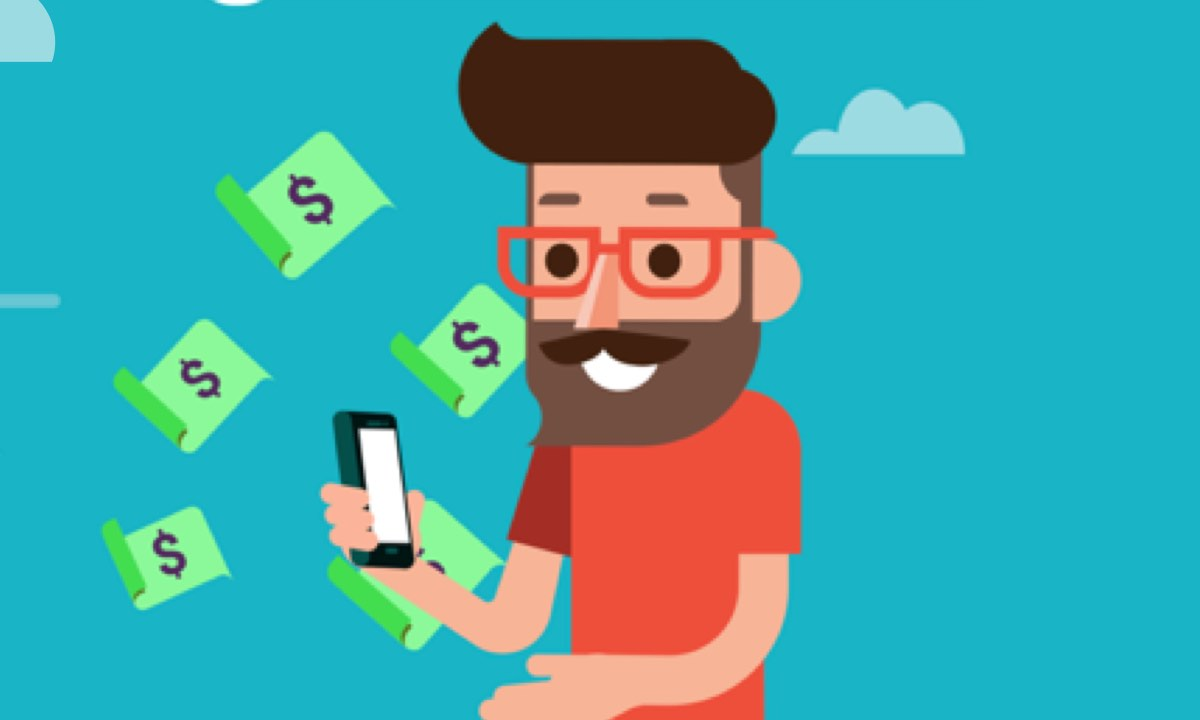
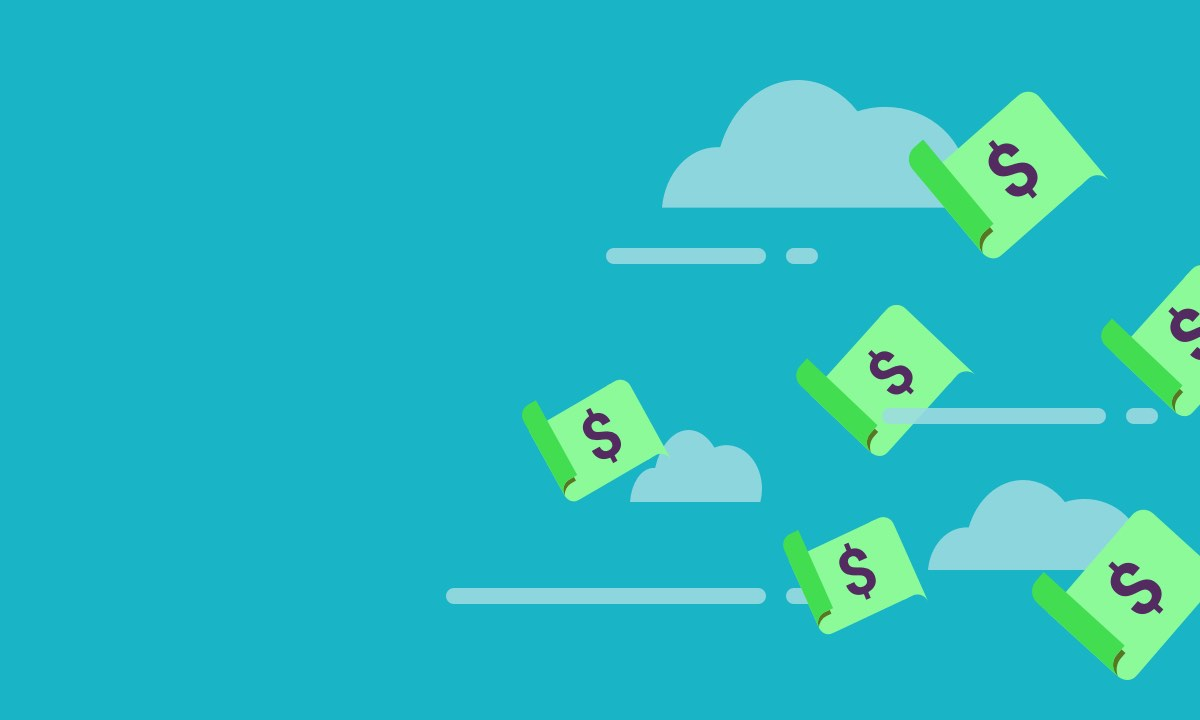
Rapiddo

diff --git a/rapiddo/vision/sources/css/main.css b/rapiddo/vision/sources/css/main.css
@@ -1,1 +1,1 @@
-@import url("https://fonts.googleapis.com/css?family=Poppins:400,600");*{margin:0;padding:0;outline:none;list-style:none;-webkit-font-smoothing:antialiased}*,*::before,*::after{-webkit-box-sizing:border-box;-moz-box-sizing:border-box;box-sizing:border-box}body{background-color:#f5f5f5;font-family:"Poppins",-apple-system,BlinkMacSystemFont,"Segoe UI",Roboto,"Helvetica Neue",Helvetica,Arial,sans-serif,"Apple Color Emoji","Segoe UI Emoji","Segoe UI Symbol";font-size:14px;font-weight:400;color:#727E84;line-height:144%}h1,h3{font-weight:600;color:#37474F}h1{margin-bottom:8px;font-size:1.54em;font-weight:600;color:#FFF}h2{margin-bottom:40px;font-size:1.32em;font-weight:400;color:#37474F}section h2{position:relative}section h2::after{content:'';display:block;position:absolute;bottom:-12px;background-color:#F66F1D;background-image:-webkit-linear-gradient(-90deg, #F66F1D 0%, #F64806 100%);background-image:-moz-linear-gradient(-90deg, #F66F1D 0%, #F64806 100%);background-image:linear-gradient(-90deg, #F66F1D 0%, #F64806 100%);width:40px;height:4px}h3{margin:40px 0 24px;font-size:1.16em}p{margin-bottom:1em;font-size:1em}a,a:visited{-webkit-transition:all ease-in-out .4s;-ms-transition:all ease-in-out .4s;-o-transition:all ease-in-out .4s;transition:all ease-in-out .4s;text-decoration:none}img{max-width:100%;height:auto}.sprite{display:inline-block;background-image:url("../img/sprite.png");background-repeat:no-repeat;background-size:316px}#services,#wallet,footer{background-color:#FFF}#download{background-color:#F66F1D;background-image:-webkit-linear-gradient(-90deg, rgba(246,111,29,0) 32%, #F64806 100%);background-image:-moz-linear-gradient(-90deg, rgba(246,111,29,0) 32%, #F64806 100%);background-image:linear-gradient(-90deg, rgba(246,111,29,0) 32%, #F64806 100%)}.wrapper{padding:40px 16px}#services .wrapper{padding:40px 0}header{position:absolute;z-index:20;top:0;width:100%}header .wrapper{position:relative;padding:16px}header .logo{display:inline-block;text-indent:100%;white-space:nowrap;overflow:hidden;background-position:0px 0px;width:99px;height:32px}header .cta{position:absolute;z-index:30;top:214px;left:50%;-webkit-transform:translateX(-50%);-moz-transform:translateX(-50%);transform:translateX(-50%);background-color:#27D634;background-image:-webkit-linear-gradient(-90deg, #27D634 0%, #119E1C 100%);background-image:-moz-linear-gradient(-90deg, #27D634 0%, #119E1C 100%);background-image:linear-gradient(-90deg, #27D634 0%, #119E1C 100%);-webkit-border-radius:4px;-moz-border-radius:4px;border-radius:4px;-webkit-box-shadow:0 8px 16px 0 rgba(55,71,79,0.32);-moz-box-shadow:0 8px 16px 0 rgba(55,71,79,0.32);box-shadow:0 8px 16px 0 rgba(55,71,79,0.32);padding:16px 24px;font-size:1.2em;font-weight:600;color:#FFF}#slideshow .slides-group{width:100% !important;min-height:544px}#slideshow .slides-nav{position:absolute;z-index:30;top:24px;right:24px;display:-webkit-box;display:-moz-box;display:-ms-flexbox;display:-webkit-flex;display:flex;flex-flow:row nowrap;text-align:right}#slideshow .slides-nav a{display:inline-block;text-indent:100%;white-space:nowrap;overflow:hidden;background-color:rgba(255,255,255,0.4);-webkit-border-radius:8px;-moz-border-radius:8px;border-radius:8px;width:12px;height:12px;margin-left:16px}#slideshow .slides-nav a.activeSlide{background-color:#FFF}#slideshow .banners{background-position:center top;background-repeat:no-repeat;background-size:cover;min-height:240px}#slideshow .banners.rapiddo{background-image:url("../img/banners/rapiddo_mobile.jpg")}#slideshow .banners.music{background-image:url("../img/banners/music_mobile.jpg")}#slideshow .banners.cashback{background-image:url("../img/banners/cashback_mobile.jpg")}#slideshow .banners.campanha{background-image:url("../img/banners/campanha_mobile.jpg")}#slideshow .banners h1{margin-top:40px}#slideshow .banners h2{width:80%;margin-bottom:0;color:#FFF}#slideshow .banners h2::after{display:none}#slideshow .device{background-image:url("../img/device.png");background-position:50% 0%;background-repeat:no-repeat;background-size:400px;height:280px;overflow:hidden;margin-top:24px;text-align:center}#slideshow .device img{max-width:160px;margin-top:60px}#services h2{text-align:center}#services h2::after{left:50%;-webkit-transform:translateX(-50%);-moz-transform:translateX(-50%);transform:translateX(-50%)}#services .cards-group{display:-webkit-box;display:-moz-box;display:-ms-flexbox;display:-webkit-flex;display:flex;flex-flow:row nowrap;flex:0 0 240px;overflow:auto;-webkit-overflow-scrolling:touch}#services .cards-serv p{margin:16px 0 32px}#services .cards-serv_cover,#services .cards-serv_legend{width:240px;margin:0 8px}#services .cards-serv_cover{position:relative;height:96px}#services .cards-serv_cover h3{position:absolute;z-index:10;bottom:12px;left:16px;margin:0;color:#FFF}#services .cards-serv_cover .cards-serv_icon{position:absolute;z-index:10;right:16px;bottom:-8px;background-color:#FFF;-webkit-border-radius:24px;-moz-border-radius:24px;border-radius:24px;-webkit-box-shadow:0 4px 8px 0 rgba(55,71,79,0.24);-moz-box-shadow:0 4px 8px 0 rgba(55,71,79,0.24);box-shadow:0 4px 8px 0 rgba(55,71,79,0.24);width:48px;height:48px}#services .cards-serv.recharge .cards-serv_cover,#services .cards-serv.recharge .cards-serv_legend{margin-left:16px}#services .cards-serv.news .cards-serv_cover,#services .cards-serv.news .cards-serv_legend{margin-right:16px}#services .cards-serv.recharge .cards-serv_icon{background-position:0px -116px}#services .cards-serv.taxi .cards-serv_icon{background-position:-58px -116px}#services .cards-serv.bills .cards-serv_icon{background-position:-116px -116px}#services .cards-serv.pizza .cards-serv_icon{background-position:0px -174px}#services .cards-serv.music .cards-serv_icon{background-position:-58px -174px}#services .cards-serv.news .cards-serv_icon{background-position:-116px -174px}#cashback{padding-bottom:40px}#cashback .how-to{display:-webkit-box;display:-moz-box;display:-ms-flexbox;display:-webkit-flex;display:flex;flex-flow:column wrap;flex:0 0 100%}#cashback .how-to::before{content:'';display:block;position:absolute;left:50%;-webkit-transform:translateX(-50%);-moz-transform:translateX(-50%);transform:translateX(-50%);z-index:1;background-color:rgba(55,71,79,0.08);width:8px;height:64%}#cashback .how-to li{position:relative;z-index:10}#cashback .how-to li .illustration{content:'';display:block;position:absolute;left:50%;-webkit-transform:translateX(-50%);-moz-transform:translateX(-50%);transform:translateX(-50%);top:32px;z-index:20;width:136px;height:136px}#cashback .how-to li .oval{background-color:#FFF;-webkit-border-radius:48px;-moz-border-radius:48px;border-radius:48px;width:80px;height:80px;margin:auto}#cashback .how-to li .oval span{content:'';display:block;position:absolute;width:80px;height:80px}#cashback .how-to li.app .illustration{background-position:0px -322px}#cashback .how-to li.app span{background-position:0 -232px}#cashback .how-to li.stamp .illustration{display:none}#cashback .how-to li.stamp span{background-position:-180px -232px;width:136px;height:136px;margin:-26px;transform:scale(0.72)}#cashback .how-to li.stamp label{margin:24px auto}#cashback .how-to li.wallet .illustration{background-position:0px -468px}#cashback .how-to li.wallet span{background-position:-90px -232px}#cashback .how-to li label{display:block;background-color:rgba(245,245,245,0.88);width:72%;margin:72px auto 24px;padding:8px;text-align:center}#wallet .wrapper{position:relative;padding-top:56%}#wallet .wrapper::before{content:'';display:block;position:absolute;top:-16%;background-image:url("../img/wallet.png");background-repeat:no-repeat;background-size:contain;width:calc(100% - 32px);height:400px}#download{position:relative}#download::before{content:'';display:block;position:absolute;background-image:url("../img/bg-girl.png");background-position:32% 100%;background-repeat:no-repeat;background-size:cover;width:100%;height:100%}#download *{position:relative;z-index:10;color:#FFF}#download h2::after{display:none}#download p{width:72%}#download .badge{display:inline-block;text-indent:100%;white-space:nowrap;overflow:hidden;background-position:-176px -116px;width:140px;height:42px}footer{text-align:center}footer .logo{display:inline-block;text-indent:100%;white-space:nowrap;overflow:hidden;background-position:-109px 0;width:99px;height:32px;margin-bottom:-10px}footer .brands{display:-webkit-box;display:-moz-box;display:-ms-flexbox;display:-webkit-flex;display:flex;flex-flow:row nowrap;justify-content:space-between}footer .brands li{display:-webkit-box;display:-moz-box;display:-ms-flexbox;display:-webkit-flex;display:flex;justify-content:center;align-items:center;background-color:#f5f5f5;-webkit-border-radius:32px;-moz-border-radius:32px;border-radius:32px;width:64px;height:64px}footer .brands li span{display:inline-block;text-indent:100%;white-space:nowrap;overflow:hidden;width:64px;height:64px;transform:scale(0.72)}footer .brands li.ifood span{background-position:0 -42px}footer .brands li.playkids span{background-position:-74px -42px}footer .brands li.apontador span{background-position:-148px -42px}footer .brands li.superplayer span{background-position:-222px -42px}@media (min-width: 768px){h2{margin-bottom:40px}.wrapper{max-width:720px;margin:auto}header .wrapper{padding-top:40px}header .cta{top:220px;left:0%;-webkit-transform:translateX(0%);-moz-transform:translateX(0%);transform:translateX(0%);margin-left:16px}#slideshow .slides-group{min-height:320px}#slideshow .slides-nav{left:50%;-webkit-transform:translateX(-50%);-moz-transform:translateX(-50%);transform:translateX(-50%);top:288px;right:inherit}#slideshow .slides-nav a{-webkit-border-radius:8px;-moz-border-radius:8px;border-radius:8px;width:12px;height:12px;margin-left:16px}#slideshow .slides{position:relative}#slideshow .slides:first-child .device{display:none}#slideshow .banners{background-position:center;min-height:320px}#slideshow .banners.rapiddo{background-image:url("../img/banners/rapiddo.jpg")}#slideshow .banners.music{background-image:url("../img/banners/music.jpg")}#slideshow .banners.cashback{background-image:url("../img/banners/cashback.jpg")}#slideshow .banners.campanha{background-image:url("../img/banners/campanha.jpg")}#slideshow .banners h1{margin-top:80px}#slideshow .banners h2{width:40%}#slideshow .device{position:absolute;z-index:20;top:0;right:0;background-image:url("../img/device_hand.png");width:320px;height:320px;margin-top:0px}#slideshow .device img{max-width:160px;margin-top:60px}#services .cards-group{flex-flow:row wrap;justify-content:space-between;align-items:flex-start;overflow:inherit}#services .cards-serv_cover,#services .cards-serv_legend{width:220px}#services .cards-serv.recharge .cards-serv_cover,#services .cards-serv.recharge .cards-serv_legend{margin-left:8px}#services .cards-serv.news .cards-serv_cover,#services .cards-serv.news .cards-serv_legend{margin-right:8px}#cashback{padding-bottom:120px}#cashback p{width:64%}#cashback .how-to{flex-flow:row nowrap;justify-content:space-between;position:relative}#cashback .how-to::before{top:70px;width:64%;height:8px}#cashback .how-to li .illustration{top:0}#cashback .how-to li.app .illustration{left:148%;-webkit-transform:translateX(-148%);-moz-transform:translateX(-148%);transform:translateX(-148%)}#cashback .how-to li.wallet .illustration{left:-48%;-webkit-transform:translateX(48%);-moz-transform:translateX(48%);transform:translateX(48%)}#cashback .how-to li .oval{margin:24px auto 32px;transform:scale(1.32)}#cashback .how-to li label{width:88%;margin:32px auto}#wallet .wrapper{padding-top:80px;padding-left:40%;text-align:right}#wallet .wrapper::before{top:-240px;left:-80px}#wallet h2::after{right:0}#download::before{background-position:100% 40%}#download p{width:320px}footer .wrapper{display:-webkit-box;display:-moz-box;display:-ms-flexbox;display:-webkit-flex;display:flex;flex-flow:row nowrap;justify-content:space-between;align-items:center;padding-top:40px;padding-bottom:40px}footer .wrapper .brands li{margin-left:24px;transform:scale(1.24)}footer .wrapper .brands li span{transform:scale(0.72)}}@media (min-width: 1024px){#services h2::after,#cashback h2::after{left:0%;-webkit-transform:translateX(0%);-moz-transform:translateX(0%);transform:translateX(0%)}.wrapper{max-width:800px;padding-top:80px;padding-bottom:80px}header .cta{top:280px}#slideshow .slides-group{min-height:400px}#slideshow .slides-nav{top:360px}#slideshow .banners{height:400px}#slideshow .device{right:8%;width:400px;height:400px;margin-top:50px}#services h2{text-align:left}#services .cards-serv_cover,#services .cards-serv_legend{width:240px;margin:auto}#services .cards-serv.recharge .cards-serv_cover,#services .cards-serv.recharge .cards-serv_legend{margin-left:0}#services .cards-serv.news .cards-serv_cover,#services .cards-serv.news .cards-serv_legend{margin-right:0}#cashback .how-to li.app .illustration{left:132%;-webkit-transform:translateX(-132%);-moz-transform:translateX(-132%);transform:translateX(-132%)}#cashback .how-to li.wallet .illustration{left:-32%;-webkit-transform:translateX(32%);-moz-transform:translateX(32%);transform:translateX(32%)}#wallet .wrapper{padding-left:320px}#wallet .wrapper::before{left:-120px;height:480px}}@media (min-width: 1440px){#slideshow .device{left:72%;-webkit-transform:translateX(-72%);-moz-transform:translateX(-72%);transform:translateX(-72%)}#wallet::before{left:4%}#download{min-height:480px}}@media (min-width: 2000px){header .wrapper,#slideshow .wrapper{max-width:1440px}header .cta{top:340px;padding:40px 56px;font-size:1.2vw}#slideshow .slides-group,#slideshow .banners{min-height:640px}#slideshow .slides-group h1,#slideshow .slides-group h2,#slideshow .banners h1,#slideshow .banners h2{font-size:1.2vw}#slideshow .slides-group h1,#slideshow .banners h1{margin-top:120px}#slideshow .slides-nav{top:600px}#slideshow .device{background-size:contain;width:560px;height:560px;margin-top:150px}#slideshow .device img{max-width:224px;margin-top:90px}}
+@import url("https://fonts.googleapis.com/css?family=Poppins:400,600");*{margin:0;padding:0;outline:none;list-style:none;-webkit-font-smoothing:antialiased}*,*::before,*::after{-webkit-box-sizing:border-box;-moz-box-sizing:border-box;box-sizing:border-box}body{background-color:#f5f5f5;font-family:"Poppins",-apple-system,BlinkMacSystemFont,"Segoe UI",Roboto,"Helvetica Neue",Helvetica,Arial,sans-serif,"Apple Color Emoji","Segoe UI Emoji","Segoe UI Symbol";font-size:14px;font-weight:400;color:#727E84;line-height:144%}h1,h3{font-weight:600;color:#37474F}h1{margin-bottom:8px;font-size:1.54em;font-weight:600;color:#FFF}h2{margin-bottom:40px;font-size:1.32em;font-weight:400;color:#37474F}section h2{position:relative}section h2::after{content:'';display:block;position:absolute;bottom:-12px;background-color:#F66F1D;background-image:-webkit-linear-gradient(-90deg, #F66F1D 0%, #F64806 100%);background-image:-moz-linear-gradient(-90deg, #F66F1D 0%, #F64806 100%);background-image:linear-gradient(-90deg, #F66F1D 0%, #F64806 100%);width:40px;height:4px}h3{margin:40px 0 24px;font-size:1.16em}p{margin-bottom:1em;font-size:1em}a,a:visited{-webkit-transition:all ease-in-out .4s;-ms-transition:all ease-in-out .4s;-o-transition:all ease-in-out .4s;transition:all ease-in-out .4s;text-decoration:none}img{max-width:100%;height:auto}.sprite{display:inline-block;background-image:url("../img/sprite.png");background-repeat:no-repeat;background-size:316px}#services,#wallet,footer{background-color:#FFF}#download{background-color:#F66F1D;background-image:-webkit-linear-gradient(-90deg, rgba(246,111,29,0) 32%, #F64806 100%);background-image:-moz-linear-gradient(-90deg, rgba(246,111,29,0) 32%, #F64806 100%);background-image:linear-gradient(-90deg, rgba(246,111,29,0) 32%, #F64806 100%)}.wrapper{padding:40px 16px}#services .wrapper{padding:40px 0}header{position:absolute;z-index:20;top:0;width:100%}header .wrapper{position:relative;padding:16px}header .logo{display:inline-block;text-indent:100%;white-space:nowrap;overflow:hidden;background-position:0px 0px;width:99px;height:32px}header .cta{position:absolute;z-index:30;top:214px;left:50%;-webkit-transform:translateX(-50%);-moz-transform:translateX(-50%);transform:translateX(-50%);background-color:#27D634;background-image:-webkit-linear-gradient(-90deg, #27D634 0%, #119E1C 100%);background-image:-moz-linear-gradient(-90deg, #27D634 0%, #119E1C 100%);background-image:linear-gradient(-90deg, #27D634 0%, #119E1C 100%);-webkit-border-radius:4px;-moz-border-radius:4px;border-radius:4px;-webkit-box-shadow:0 8px 16px 0 rgba(55,71,79,0.32);-moz-box-shadow:0 8px 16px 0 rgba(55,71,79,0.32);box-shadow:0 8px 16px 0 rgba(55,71,79,0.32);padding:16px 24px;font-size:1.2em;font-weight:600;color:#FFF}#slideshow .slides-group{width:100% !important;min-height:544px}#slideshow .slides-nav{position:absolute;z-index:30;top:24px;right:24px;display:-webkit-box;display:-moz-box;display:-ms-flexbox;display:-webkit-flex;display:flex;flex-flow:row nowrap;text-align:right}#slideshow .slides-nav a{display:inline-block;text-indent:100%;white-space:nowrap;overflow:hidden;background-color:rgba(255,255,255,0.4);-webkit-border-radius:8px;-moz-border-radius:8px;border-radius:8px;width:12px;height:12px;margin-left:16px}#slideshow .slides-nav a.activeSlide{background-color:#FFF}#slideshow .banners{background-position:center top;background-repeat:no-repeat;background-size:cover;min-height:240px}#slideshow .banners.rapiddo{background-image:url("../img/banners/rapiddo_mobile.jpg")}#slideshow .banners.music{background-image:url("../img/banners/music_mobile.jpg")}#slideshow .banners.cashback{background-image:url("../img/banners/cashback_mobile.jpg")}#slideshow .banners.campanha{background-image:url("../img/banners/campanha_mobile.jpg")}#slideshow .banners h1{margin-top:40px}#slideshow .banners h2{width:80%;margin-bottom:0;color:#FFF}#slideshow .banners h2::after{display:none}#slideshow .device{background-image:url("../img/device.png");background-position:50% 0%;background-repeat:no-repeat;background-size:400px;height:280px;overflow:hidden;margin-top:24px;text-align:center}#slideshow .device img{max-width:160px;margin-top:60px}#slideshow .slides:first-child .device{background-image:url("../img/boneco.png");background-size:320px;background-position:0px 40px}#slideshow .slides:first-child .device img{display:none}#services h2{text-align:center}#services h2::after{left:50%;-webkit-transform:translateX(-50%);-moz-transform:translateX(-50%);transform:translateX(-50%)}#services .cards-group{display:-webkit-box;display:-moz-box;display:-ms-flexbox;display:-webkit-flex;display:flex;flex-flow:row nowrap;flex:0 0 240px;overflow:auto;-webkit-overflow-scrolling:touch}#services .cards-serv p{margin:16px 0 32px}#services .cards-serv_cover,#services .cards-serv_legend{width:240px;margin:0 8px}#services .cards-serv_cover{position:relative;height:96px}#services .cards-serv_cover h3{position:absolute;z-index:10;bottom:12px;left:16px;margin:0;color:#FFF}#services .cards-serv_cover .cards-serv_icon{position:absolute;z-index:10;right:16px;bottom:-8px;background-color:#FFF;-webkit-border-radius:24px;-moz-border-radius:24px;border-radius:24px;-webkit-box-shadow:0 4px 8px 0 rgba(55,71,79,0.24);-moz-box-shadow:0 4px 8px 0 rgba(55,71,79,0.24);box-shadow:0 4px 8px 0 rgba(55,71,79,0.24);width:48px;height:48px}#services .cards-serv.recharge .cards-serv_cover,#services .cards-serv.recharge .cards-serv_legend{margin-left:16px}#services .cards-serv.news .cards-serv_cover,#services .cards-serv.news .cards-serv_legend{margin-right:16px}#services .cards-serv.recharge .cards-serv_icon{background-position:0px -116px}#services .cards-serv.taxi .cards-serv_icon{background-position:-58px -116px}#services .cards-serv.bills .cards-serv_icon{background-position:-116px -116px}#services .cards-serv.pizza .cards-serv_icon{background-position:0px -174px}#services .cards-serv.music .cards-serv_icon{background-position:-58px -174px}#services .cards-serv.news .cards-serv_icon{background-position:-116px -174px}#cashback{padding-bottom:40px}#cashback .how-to{display:-webkit-box;display:-moz-box;display:-ms-flexbox;display:-webkit-flex;display:flex;flex-flow:column wrap;flex:0 0 100%}#cashback .how-to::before{content:'';display:block;position:absolute;left:50%;-webkit-transform:translateX(-50%);-moz-transform:translateX(-50%);transform:translateX(-50%);z-index:1;background-color:rgba(55,71,79,0.08);width:8px;height:64%}#cashback .how-to li{position:relative;z-index:10}#cashback .how-to li .illustration{content:'';display:block;position:absolute;left:50%;-webkit-transform:translateX(-50%);-moz-transform:translateX(-50%);transform:translateX(-50%);top:32px;z-index:20;width:136px;height:136px}#cashback .how-to li .oval{background-color:#FFF;-webkit-border-radius:48px;-moz-border-radius:48px;border-radius:48px;width:80px;height:80px;margin:auto}#cashback .how-to li .oval span{content:'';display:block;position:absolute;width:80px;height:80px}#cashback .how-to li.app .illustration{background-position:0px -322px}#cashback .how-to li.app span{background-position:0 -232px}#cashback .how-to li.stamp .illustration{display:none}#cashback .how-to li.stamp span{background-position:-180px -232px;width:136px;height:136px;margin:-26px;transform:scale(0.72)}#cashback .how-to li.stamp label{margin:24px auto}#cashback .how-to li.wallet .illustration{background-position:0px -468px}#cashback .how-to li.wallet span{background-position:-90px -232px}#cashback .how-to li label{display:block;background-color:rgba(245,245,245,0.88);width:72%;margin:72px auto 24px;padding:8px;text-align:center}#wallet .wrapper{position:relative;padding-top:56%}#wallet .wrapper::before{content:'';display:block;position:absolute;top:-16%;background-image:url("../img/wallet.png");background-repeat:no-repeat;background-size:contain;width:calc(100% - 32px);height:400px}#download{position:relative}#download::before{content:'';display:block;position:absolute;background-image:url("../img/bg-girl.png");background-position:32% 100%;background-repeat:no-repeat;background-size:cover;width:100%;height:100%}#download *{position:relative;z-index:10;color:#FFF}#download h2::after{display:none}#download p{width:72%}#download .badge{display:inline-block;text-indent:100%;white-space:nowrap;overflow:hidden;background-position:-176px -116px;width:140px;height:42px}footer{text-align:center}footer .logo{display:inline-block;text-indent:100%;white-space:nowrap;overflow:hidden;background-position:-109px 0;width:99px;height:32px;margin-bottom:-10px}footer .brands{display:-webkit-box;display:-moz-box;display:-ms-flexbox;display:-webkit-flex;display:flex;flex-flow:row nowrap;justify-content:space-between}footer .brands li{display:-webkit-box;display:-moz-box;display:-ms-flexbox;display:-webkit-flex;display:flex;justify-content:center;align-items:center;background-color:#f5f5f5;-webkit-border-radius:32px;-moz-border-radius:32px;border-radius:32px;width:64px;height:64px}footer .brands li span{display:inline-block;text-indent:100%;white-space:nowrap;overflow:hidden;width:64px;height:64px;transform:scale(0.72)}footer .brands li.ifood span{background-position:0 -42px}footer .brands li.playkids span{background-position:-74px -42px}footer .brands li.apontador span{background-position:-148px -42px}footer .brands li.superplayer span{background-position:-222px -42px}@media (min-width: 768px){h2{margin-bottom:40px}.wrapper{max-width:720px;margin:auto}header .wrapper{padding-top:40px}header .cta{top:220px;left:0%;-webkit-transform:translateX(0%);-moz-transform:translateX(0%);transform:translateX(0%);margin-left:16px}#slideshow .slides-group{min-height:320px}#slideshow .slides-nav{left:50%;-webkit-transform:translateX(-50%);-moz-transform:translateX(-50%);transform:translateX(-50%);top:288px;right:inherit}#slideshow .slides-nav a{-webkit-border-radius:8px;-moz-border-radius:8px;border-radius:8px;width:12px;height:12px;margin-left:16px}#slideshow .slides{position:relative}#slideshow .banners{background-position:center;min-height:320px}#slideshow .banners.rapiddo{background-image:url("../img/banners/rapiddo.jpg")}#slideshow .banners.music{background-image:url("../img/banners/music.jpg")}#slideshow .banners.cashback{background-image:url("../img/banners/cashback.jpg")}#slideshow .banners.campanha{background-image:url("../img/banners/campanha.jpg")}#slideshow .banners h1{margin-top:80px}#slideshow .banners h2{width:40%}#slideshow .device{position:absolute;z-index:20;top:0;right:0;background-image:url("../img/device_hand.png");width:320px;height:320px;margin-top:0px}#slideshow .device img{max-width:160px;margin-top:60px}#services .cards-group{flex-flow:row wrap;justify-content:space-between;align-items:flex-start;overflow:inherit}#services .cards-serv_cover,#services .cards-serv_legend{width:220px}#services .cards-serv.recharge .cards-serv_cover,#services .cards-serv.recharge .cards-serv_legend{margin-left:8px}#services .cards-serv.news .cards-serv_cover,#services .cards-serv.news .cards-serv_legend{margin-right:8px}#cashback{padding-bottom:120px}#cashback p{width:64%}#cashback .how-to{flex-flow:row nowrap;justify-content:space-between;position:relative}#cashback .how-to::before{top:70px;width:64%;height:8px}#cashback .how-to li .illustration{top:0}#cashback .how-to li.app .illustration{left:148%;-webkit-transform:translateX(-148%);-moz-transform:translateX(-148%);transform:translateX(-148%)}#cashback .how-to li.wallet .illustration{left:-48%;-webkit-transform:translateX(48%);-moz-transform:translateX(48%);transform:translateX(48%)}#cashback .how-to li .oval{margin:24px auto 32px;transform:scale(1.32)}#cashback .how-to li label{width:88%;margin:32px auto}#wallet .wrapper{padding-top:80px;padding-left:40%;text-align:right}#wallet .wrapper::before{top:-240px;left:-80px}#wallet h2::after{right:0}#download::before{background-position:100% 40%}#download p{width:320px}footer .wrapper{display:-webkit-box;display:-moz-box;display:-ms-flexbox;display:-webkit-flex;display:flex;flex-flow:row nowrap;justify-content:space-between;align-items:center;padding-top:40px;padding-bottom:40px}footer .wrapper .brands li{margin-left:24px;transform:scale(1.24)}footer .wrapper .brands li span{transform:scale(0.72)}}@media (min-width: 1024px){#services h2::after,#cashback h2::after{left:0%;-webkit-transform:translateX(0%);-moz-transform:translateX(0%);transform:translateX(0%)}.wrapper{max-width:800px;padding-top:80px;padding-bottom:80px}header .cta{top:280px}#slideshow .slides-group{min-height:400px}#slideshow .slides-nav{top:360px}#slideshow .banners{height:400px}#slideshow .device{right:8%;width:400px;height:400px;margin-top:50px}#services h2{text-align:left}#services .cards-serv_cover,#services .cards-serv_legend{width:240px;margin:auto}#services .cards-serv.recharge .cards-serv_cover,#services .cards-serv.recharge .cards-serv_legend{margin-left:0}#services .cards-serv.news .cards-serv_cover,#services .cards-serv.news .cards-serv_legend{margin-right:0}#cashback .how-to li.app .illustration{left:132%;-webkit-transform:translateX(-132%);-moz-transform:translateX(-132%);transform:translateX(-132%)}#cashback .how-to li.wallet .illustration{left:-32%;-webkit-transform:translateX(32%);-moz-transform:translateX(32%);transform:translateX(32%)}#wallet .wrapper{padding-left:320px}#wallet .wrapper::before{left:-120px;height:480px}}@media (min-width: 1440px){#slideshow .device{left:72%;-webkit-transform:translateX(-72%);-moz-transform:translateX(-72%);transform:translateX(-72%)}#wallet::before{left:4%}#download{min-height:480px}}@media (min-width: 2000px){header .wrapper,#slideshow .wrapper{max-width:1440px}header .cta{top:340px;padding:40px 56px;font-size:1.2vw}#slideshow .slides-group,#slideshow .banners{min-height:640px}#slideshow .slides-group h1,#slideshow .slides-group h2,#slideshow .banners h1,#slideshow .banners h2{font-size:1.2vw}#slideshow .slides-group h1,#slideshow .banners h1{margin-top:120px}#slideshow .slides-nav{top:600px}#slideshow .device{background-size:contain;width:560px;height:560px;margin-top:150px}#slideshow .device img{max-width:224px;margin-top:90px}}

diff --git a/rapiddo/vision/sources/sass/main.scss b/rapiddo/vision/sources/sass/main.scss
@@ -235,6 +235,18 @@ header {
 			margin-top: 60px;
 		}
 	}
+
+	.slides:first-child {
+		.device {
+			background-image: url('../img/boneco.png');
+			background-size: 320px;
+			background-position: 0px 40px;
+
+			img {
+				display: none;
+			}
+		}
+	}
 }
 
 

diff --git a/rapiddo/vision/sources/sass/_media-queries.scss b/rapiddo/vision/sources/sass/_media-queries.scss
@@ -45,12 +45,6 @@
 
 		.slides {
 			position: relative;
-
-			&:first-child {
-				.device {
-					display: none;
-				}
-			}
 		}
 
 		// Banners
